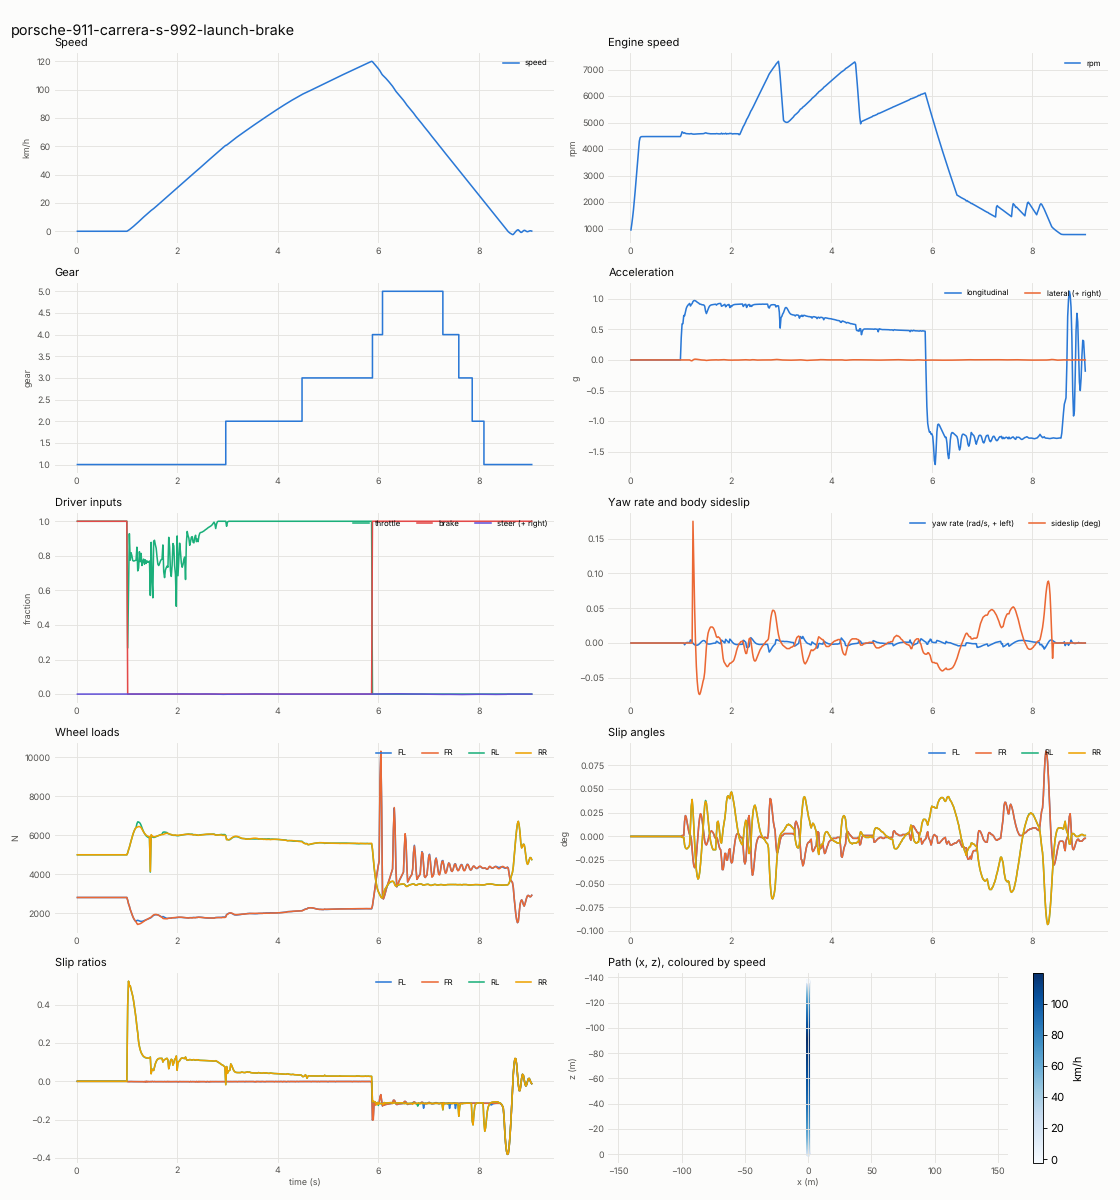
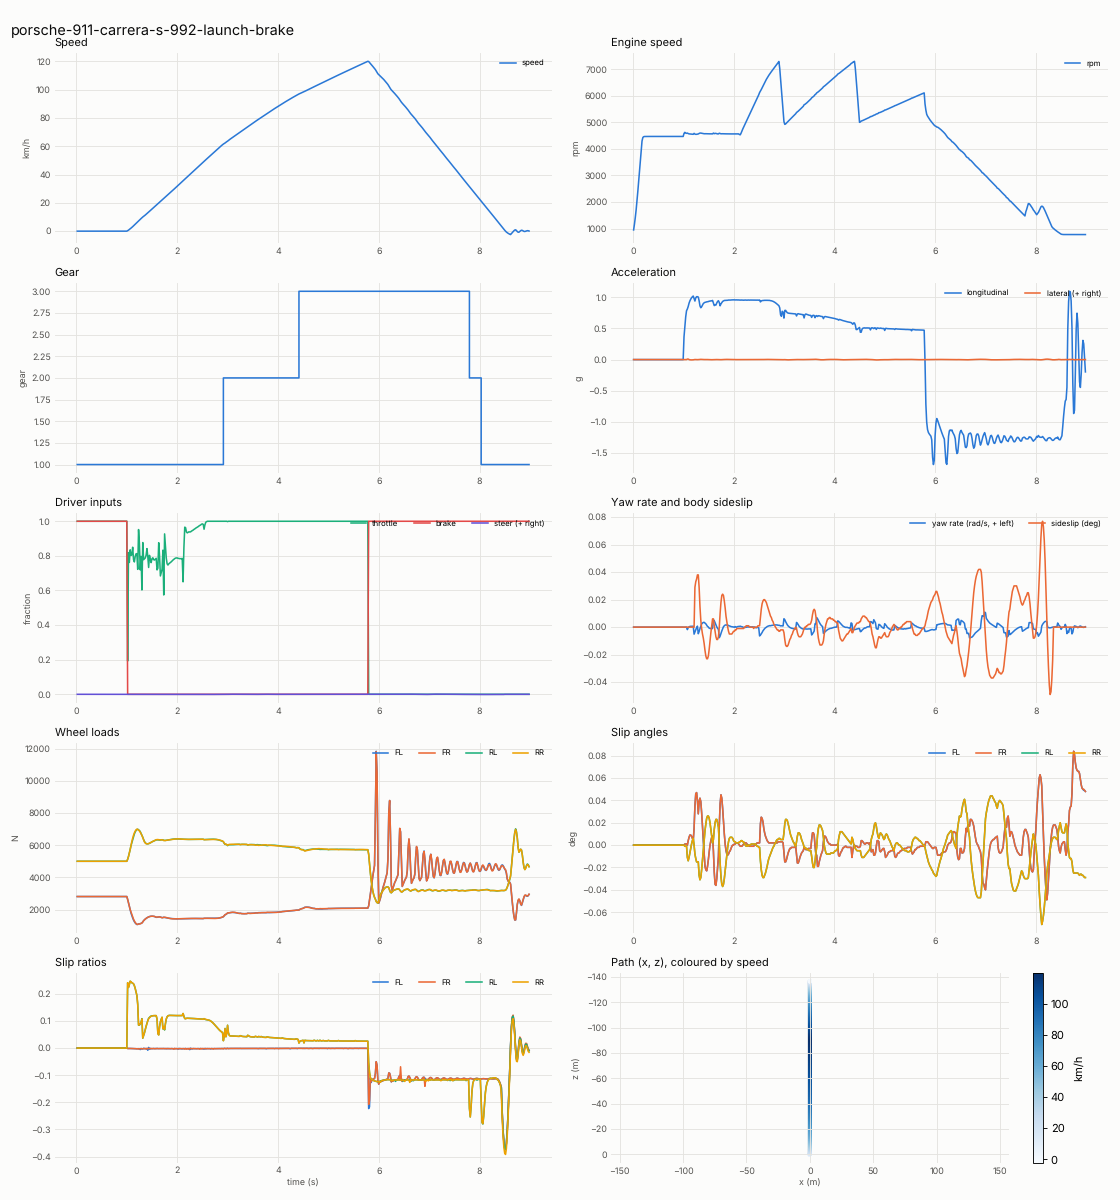
M1 note: independent review section; post-fix figures and plots
Claude-Session: https://claude.ai/code/session_01LGdpko7iDViaW6UH4NJRSr

diff --git a/docs/milestones/M1.md b/docs/milestones/M1.md
@@ -10,7 +10,7 @@ new crates listed under "Dependencies".
 |---|---|---|
 | Vehicle model v1 | `crates/racer-dynamics` | Pure Rust (glam, serde, toml; no Bevy). `Vehicle::step(&mut VehicleState, &ChassisState, &Controls, &[Option<WheelContact>; 4], dt) -> StepOutput { force, torque, telemetry }`. `VehicleState` is plain `Copy` data (rollback = copy). 240 Hz chassis step, wheels and drivetrain substepped ×4 inside. |
 | Tires | `tire.rs` | Magic Formula per axis with the peak placed at a configured slip (B solved from C, E), combined slip by the similarity method, load-sensitive μ, first-order relaxation (implicit, stable at any speed, a damped spring at standstill), pneumatic-trail aligning torque that fades past the peak, surface grip/drag multipliers (dry/wet asphalt, paint, cobbles, metal, curb, grass, dirt). |
-| Suspension | `vehicle.rs` | Spring from ride frequency, bump/rebound damping from damping ratios, progressive bump stop, anti-roll bars, tire forces applied at the axle roll-centre height. Contacts come from the caller's wheel shape cast (distance + normal + surface). |
+| Suspension | `vehicle.rs` | Spring from ride frequency, bump/rebound damping from damping ratios, progressive bump stop, anti-roll bars, roll-centre (geometric) load transfer through a jacking term in the wheel load; tire forces act at the contact patch. Contacts come from the caller's wheel shape cast (distance + normal + surface). |
 | Drivetrain | `drivetrain.rs` | Torque curve, closed-throttle drag, idle governor, rev limiter with hysteresis, flywheel inertia, automatic clutch (launch slip, anti-stall, pedal), launch control (brake + full throttle at rest), gearbox with per-gear final drives (DSG), auto and manual shifting, DCT-style shifts (ignition cut / blip with torque fill), open / clutch-type LSD differentials and an AWD centre differential. Every coupling (clutch, LSDs) is solved implicitly per substep: locked couplings are exactly rigid, slipping ones transmit their capacity. |
 | Aero | `vehicle.rs` | Drag through the CoM, lift/downforce per axle. |
 | Assists | `assists.rs` | ABS and TCS on wheel-speed (kinematic) slip with a proportional slip band and 10 ms actuator lag; TCS trims engine torque, or clutch torque while pulling away; ESC brakes single wheels against a yaw-rate reference capped by grip. Controlled per player through `Controls::assists`. |
@@ -64,13 +64,15 @@ sources are in each `car.toml`. Tolerances:
 
 | Car | 0–100 sim / real (s) | 100–0 sim / real (m) | Skidpad sim / real (g) | Top speed sim / real (km/h) |
 |---|---|---|---|---|
-| Golf GTI | 5.94 / 6.3 (−5.7 %) | 36.34 / 36.4 (−0.2 %) | 0.96 / 0.97 | 249.98 / 250 (governed) |
-| M3 Competition | 3.95 / 3.9 (+1.3 %) | 35.78 / 36.0 (−0.6 %) | 1.02 / 1.03 | 250.03 / 250 (governed) |
-| 911 Carrera S | 3.64 / 3.7 (−1.6 %) | 31.11 / 31.4 (−0.9 %) | 1.06 / 1.06 | 313.06 / 308 (+1.6 %) |
+| Golf GTI | 6.00 / 6.3 (−4.8 %) | 36.66 / 36.4 (+0.7 %) | 0.96 / 0.97 | 250.00 / 250 (governed) |
+| M3 Competition | 4.06 / 3.9 (+4.1 %) | 34.89 / 36.0 (−3.1 %) | 1.04 / 1.03 | 250.02 / 250 (governed) |
+| 911 Carrera S | 3.57 / 3.7 (−3.5 %) | 31.26 / 31.4 (−0.4 %) | 1.05 / 1.06 | 313.06 / 308 (+1.6 %) |
+
+(Figures after the review fixes; see Review below.)
 
 Real 0–100 times are manufacturer claims. Braking figures are magazine 70–0 / 60–0 mph tests
 scaled by v² (no 100–0 km/h magazine figures were found); the notes in each file say which.
-The GTI's measured 0–100 in an instrumented test was 5.88 s, so the simulated 5.94 s is closer to
+The GTI's measured 0–100 in an instrumented test was 5.88 s, so the simulated 6.00 s is closer to
 that than to VW's 6.3 s claim. Top speed for the GTI and M3 is the electronic limiter (the test
 checks that the car reaches it); the 911's is drag-limited.
 
@@ -78,9 +80,9 @@ Step steer at 100 km/h (yaw rate rad/s, sideslip max):
 
 | Car | 0.4 g step, ESC off | 0.4 g step, ESC on | 4× step, ESC on |
 |---|---|---|---|
-| Golf GTI | 0.116 steady, 0.35 g, 0.1° | same | 0.353 steady, 1.00 g, 1.2° |
-| M3 | 0.126, 0.38 g, 0.2° | same | 0.373, 1.06 g, 1.5° |
-| 911 | 0.124, 0.37 g, 0.3° | same | 0.427, 1.16 g, 3.2° |
+| Golf GTI | 0.112 steady, 0.34 g, 0.1° | same | 0.337 steady, 0.96 g, 1.0° |
+| M3 | 0.122, 0.37 g, 0.1° | same | 0.364, 1.04 g, 1.4° |
+| 911 | 0.117, 0.35 g, 0.3° | same | 0.389, 1.08 g, 2.6° |
 
 (The lateral g above is the accelerometer reading, which includes a few hundredths of g from body roll.)
 
@@ -95,8 +97,8 @@ All under `[estimated]` in each `car.toml`; the main ones:
 | Yaw radius of gyration | 1.22 m | 1.30 m | 1.16 m |
 | Ride frequency F/R | 1.55/1.75 Hz | 1.7/1.9 Hz | 1.8/2.1 Hz |
 | Anti-roll rate F/R | 18/14 kN/m | 26/16 kN/m | 22/14 kN/m |
-| Tire μ long F/R | 1.12/1.10 | 1.15/1.45 | 1.26/1.26 |
-| Tire μ lat | 1.17 | 1.22 | 1.24 |
+| Tire μ long F/R | 1.12/1.10 | 1.15/1.35 | 1.26/1.26 |
+| Tire μ lat | 1.22 | 1.27 | 1.30 |
 | Peak slip ratio / angle | 0.11 / 7° | 0.11 / 7° | 0.11 / 7° |
 | Relaxation long/lat | 0.12/0.35 m | 0.12/0.35 m | 0.12/0.35 m |
 | Brake torque F/R per wheel | 3200/1800 Nm | 4200/1000 Nm | 3600/3200 Nm |
@@ -117,7 +119,7 @@ same tire shape for all cars and differs only in μ.
 
 | Test | What it does | Result |
 |---|---|---|
-| `fuzz::random_extreme_inputs_stay_finite_and_bounded` | 3 cars × 4 seeds × 60 s at 240 Hz on a course with curbs every 40 m, a 1 m kicker with a drop every 120 m, undulation and grass; random throttle/brake/steer/handbrake/clutch/shifts/assists, half of the runs from 70 m/s. Checks every step: finite state, speed < 110 m/s, yaw rate < 25 rad/s, wheel spin < 500 rad/s, mechanical energy ≤ initial + peak power × t. Runs include flights, rollovers and reversing. | Pass |
+| `fuzz::random_extreme_inputs_stay_finite_and_bounded` | 3 cars × 4 seeds × 60 s at 240 Hz on a course with curbs every 40 m, a 1 m kicker with a drop every 120 m, undulation and grass; random throttle/brake/steer/handbrake/clutch/shifts/assists, half of the runs from 70 m/s. Checks every step: finite state, speed < 110 m/s, yaw rate < 25 rad/s, wheel spin < 500 rad/s, mechanical energy (chassis, wheels, flywheel) ≤ initial + 1.02 × engine work + 20 kJ. Runs include flights, rollovers and reversing. | Pass |
 | `fuzz::jump_landing_settles` | Kicker at 90 km/h: leaves the ground, lands without bouncing back into the air, is upright and at rest after braking. | Pass |
 | `fuzz::rest_is_quiet` | 5 s settle, then 2 s at rest (brake on and off): \|v\|, \|ω\| < 2·10⁻³. | Pass |
 | `fuzz::cruise_is_smooth` | 120 km/h straight: vertical acceleration std < 0.05 m/s². | Pass |
@@ -134,20 +136,20 @@ Plots for all three cars are in `docs/milestones/m1/`. What they show, after the
 further down:
 
 - **Balance (skidpad, front minus rear slip angle against lateral g):** GTI understeers and
-  increasingly so (0.16° at 0.5 g, 0.72° at 0.9 g); M3 mildly (0.16°, 0.52°); 911 close to
-  neutral (0.06°, 0.16°) with body sideslip turning tail-out near the limit. That ordering is
-  what the layouts and weight distributions predict.
+  increasingly so (0.21° at 0.5 g, 0.82° at 0.9 g); M3 mildly (0.20°, 0.58°); 911 closest to
+  neutral (0.11°, 0.29°). At the limit all three push wide on a saturated front axle (front
+  slip ~10° against ~3° rear). That ordering is what the layouts and weight distributions
+  predict. (Figures from the post-review plots; the skidpad run now reaches the limit.)
 - **Weight transfer:** outside wheels load up in corners (inside rear of the GTI drops below 1 kN
   at 0.95 g, the classic FWD three-wheel stance); front loads rise and rears drop under braking
-  (front axle static to braking: GTI 9.2 → 12.0 kN, M3 9.4 → 12.3 kN, 911 5.6 → 8.6 kN), the
-  reverse under acceleration; the 911 carries most
-  of its load on the rear throughout.
+  (front axle static to braking: GTI 9.2 → 12.4 kN, M3 9.4 → 12.8 kN, 911 5.6 → 9.2 kN), the
+  reverse under acceleration; the 911 carries most of its load on the rear throughout.
 - **Gear changes:** launch control holds launch rpm, then clean upshifts near the limiter with a
-  short rpm drop each (DCT fill), and downshifts under braking; the governed cars sit on 250 km/h.
+  short rpm drop each (DCT fill), and only downshifts under braking; the governed cars sit on 250 km/h.
 - **Slip:** a short wheelspin peak at launch trimmed by TCS to about 1.2× peak slip; ABS holds
-  braking slip near the peak to a standstill; lap slip angles stay within 3° except at the crest
+  braking slip near the peak to a standstill; lap slip angles stay within 5° except at the crest
   landing.
-- **Crest:** at ~100 km/h all cars take off (~0.5 s) and land with 30–65 kN peak wheel loads and
+- **Crest:** at ~100 km/h all cars take off (~0.5 s) and land with 35–72 kN peak wheel loads and
   a short rebound, then carry on (the lateral-g spikes in the lap plots are the landing).
 
 ### Driving captures
@@ -192,7 +194,7 @@ compiler.
 $ cargo fmt --all --check                                          # clean
 $ cargo clippy --workspace --all-targets --locked -- -D warnings   # clean
 $ cargo clippy -p racer-game --features wheel --all-targets -- -D warnings   # clean
-$ cargo test --workspace --locked                                  # 38 tests, all pass (~10 s of test time)
+$ cargo test --workspace --locked                                  # 39 tests, all pass (~35 s of test time)
 $ CARGO_FEATURE_PURE=1 cargo clippy --workspace --all-targets --locked \
     --target x86_64-pc-windows-msvc -- -D warnings                 # clean
 $ CARGO_FEATURE_PURE=1 cargo clippy --workspace --all-targets --locked \
@@ -251,3 +253,134 @@ $ CARGO_FEATURE_PURE=1 cargo clippy --workspace --all-targets --locked \
 - `tools/plot_telemetry.py` needs a Python that can import the distro's matplotlib; this
   container's default `python3` is 3.13 while Ubuntu's package targets 3.12, so
   `tools/telemetry.sh` picks whichever works.
+
+## Review
+
+Independent review of branch `m1-driving-feel` (handoff commit `3ec5e4d`), done in a fresh
+GPU-less container (4 cores, Ubuntu 24.04, Mesa lavapipe) on 2026-10-27. Fixes are separate
+commits on the branch after the handoff.
+
+### What was verified
+
+All commands were run on the handoff commit first, then on the final tree after the fixes below.
+
+| Check | Handoff commit | Final tree |
+|---|---|---|
+| `tools/setup.sh` | ok | (not changed) |
+| `cargo fmt --all --check` | clean | clean |
+| `cargo clippy --workspace --all-targets --locked -- -D warnings` | clean | clean |
+| `cargo clippy -p racer-game --features wheel --all-targets --locked -- -D warnings` | clean | clean |
+| `cargo test --workspace --locked`, 3 runs | all pass, 3/3 | all pass, 3/3 (39 tests: 38 + the replay test) |
+| `cargo test -p racer-game --features wheel` (SDL3 from source) | pass | pass (new latch test included) |
+| Cross clippy `x86_64-pc-windows-msvc`, `aarch64-apple-darwin` (`CARGO_FEATURE_PURE=1`, after `rustup target add`) | clean | clean |
+| `tools/telemetry.sh` | 9 CSV + 9 PNG | 9 CSV + 9 PNG, plots replaced in `docs/milestones/m1/` |
+| `tools/capture.sh driving` / `greybox` + `racer-capture diff` against the goldens | all pass (driving ≤ 0.031 mean error, greybox 0.000) | all pass (driving ≤ 0.026, greybox 0.000) |
+
+Every plot and capture was looked at. The handoff's telemetry figures (balance, braking loads)
+were reproduced from its CSVs before changing anything. The goldens were not updated: the fixes
+move the captured images by a few HUD pixels, well inside the diff tolerance.
+
+Car data spot-checks: the 911 Carrera S (331 kW, 530 Nm at 2300–5000, 0–100 3.7 s without Sport
+Chrono, 308 km/h, 1515 kg DIN), M3 Competition (375 kW, 650 Nm, 1730 kg DIN, 0–100 3.9 s, ZF
+8HP ratios) and GTI Mk8 (180 kW, 370 Nm at 1600–4300, 0–100 6.3 s DSG, governed 250) figures
+match the manufacturer data I know of and what web searches turned up. Car and Driver pages
+(GTI and M3 test figures) could not be fetched from this container, so the 70–0 and skidpad
+numbers were not independently re-checked.
+
+### Physics review
+
+Conventions check out: body frame +X right, +Y up, −Z forward throughout; steering positive
+left inside the model (input +1 = right); slip and force signs, the aligning-torque sign (a tire
+sliding right returns the wheel), Ackermann (inside wheel more), ESC wheel choice (outside front
+on oversteer, inside rear on understeer), inertia axes (X pitch, Y yaw, Z roll) in both the
+testbed and the Avian `AngularInertia`. The clutch and LSD couplings are solved implicitly and
+correctly (rederived the lock torque); relaxation is integrated implicitly; the tire stays
+inside the friction ellipse. The reference maneuvers are honest: the scripted drivers are plain
+feedback laws with no per-car cases, and the Avian path reproduces the same numbers (below).
+`VehicleState` is `Copy` and the step uses no hidden state, now backed by a replay test.
+
+### Testbed vs Avian
+
+Avian figures are from the telemetry runs on the greybox track (skidpad: best 1 s mean of v²/r
+within 0.75 m of the 45.72 m line, the testbed's metric; braking: distance from 100 km/h during
+a full stop from 120 km/h).
+
+| Car | 0–100 s, testbed / Avian | 100–0 m, testbed / Avian | Skidpad g, testbed / Avian |
+|---|---|---|---|
+| Golf GTI | 6.00 / 6.07 | 36.66 / 36.23 | 0.96 / 0.95 |
+| M3 Competition | 4.06 / 4.08 | 34.89 / 34.58 | 1.04 / 1.03 |
+| 911 Carrera S | 3.57 / 3.62 | 31.26 / 31.46 | 1.05 / 1.03 |
+
+The two paths agree within 2 % on time and distance and 0.02 g on the skidpad. (Before the fix
+to the telemetry skidpad run, the Avian skidpad could not be compared at all, see 5.)
+
+### Issues found and fixed
+
+1. **Load transfer ~17 % short** (`vehicle.rs`, physics). Tire forces were applied at roll-centre
+   height with nothing carrying the rest of their moment, so the overturning moment was
+   F (h − h_rc) instead of F h. Measured in the testbed: steady cornering moment from the wheel
+   loads 0.82–0.84 of m a h, braking front gain 0.82–0.84 of m a h / L. Fix: the tire force acts
+   at the contact patch, and each wheel load carries the linkage's jacking force
+   −F_lat h_rc / x_wheel (from the last step's lateral force, plain data in `WheelState`), so the
+   total is m a h / track while the springs still carry only the share above the roll centre
+   (body roll unchanged). Afterwards 0.98–0.99 (lateral, the rest is the tilted accelerometer)
+   and 0.96–1.01 (braking). Less grip followed from load sensitivity, so μ_lat was refitted
+   (GTI/M3/911 1.17/1.22/1.24 → 1.22/1.27/1.30), and the M3's rear μ_long fit came down from
+   1.45 to 1.35 now that its rears gain their full load under acceleration.
+2. **Aligning torque never reached the chassis** (`vehicle.rs`): computed for force feedback but
+   not applied. Now added to the chassis torque.
+3. **Driveline created energy on the overrun** (`drivetrain.rs`): the efficiency scaled the
+   wheel-side torque the same way in both directions, so under engine braking the wheels gave up
+   only η of what the engine absorbed. When the wheels drive the engine they now supply 1/η.
+4. **Fuzz energy check could not fail** (`tests/fuzz.rs`): the bound was initial + 1.05 × peak
+   power × t (~23 MJ after a minute). It now counts wheel and flywheel energy and must stay
+   within the engine's actual positive work +2 % +20 kJ (a bound of 0.9 × that work, no margin, fails).
+5. **Telemetry skidpad never reached the limit** (`racer-capture/src/telemetry.rs`): the ramp
+   started at 10 m/s and hit the 90 s cap at ~0.95 g with every car still on the line, so the
+   handoff's "near the limit" balance remarks were not backed by the plots. The ramp now starts
+   at 14 m/s; assists stay on for the run-up from rest only (the 911 spun on a full-throttle,
+   assists-off start). All cars now run wide at their limit before the cap.
+6. **Automatic upshifts under hard braking** (`drivetrain.rs`): with the throttle closed the
+   upshift point drops to its part-throttle value, so a stop from 120 km/h went 3-4-5-6 before
+   downshifting. Upshifts now wait for the brake to be released.
+7. **Driving captures ran the car at 64 Hz** (`racer-sim/src/vehicle.rs`): the capture scene
+   added `VehiclePlugin` without `SimPlugin`, so the fixed step was Bevy's default 64 Hz, not
+   240 Hz. After fix 1 the parked car settled into a step-rate limit cycle at that rate (the HUD
+   read 0.75 g at rest in the later captures). `VehiclePlugin` now adds `SimPlugin` if missing.
+8. **SDL3 paddle shifts mostly lost** (`sdl_wheel.rs`): the 4 ms SDL thread set a one-poll edge
+   that the next poll cleared before the game (one read per frame) saw it. Presses are now
+   latched until read (new test). The joystick-name mutex nobody read became a log line. CI now
+   also lints `--features wheel` on Linux.
+9. **Rollback claim untested**: new `replay_from_a_snapshot_is_bit_identical` test.
+10. **Fragile mock-wheel test** (`input.rs`): it checked one force sample at 3 s, which after the
+    fixes landed on the right wheels dropping off the road edge. Now 2.5 s and the mean of the
+    last 0.25 s.
+
+The handoff's tables above (reference results, step steer, fitted μ, telemetry figures) were
+updated to the post-fix numbers.
+
+### Left open
+
+- PLAN.md section 4 items not in M1: camber thrust and camber/toe curves, ride-height-sensitive
+  aero, slipstream, torque vectoring, and the quarter-mile reference test (no source figures in
+  the car files yet). The handoff lists these as gaps; they should be scheduled.
+- The model is tuned and validated only at 240 Hz; `Vehicle::step` takes any `dt` but the
+  low-speed tire damping can limit-cycle at much lower rates (seen at 64 Hz).
+- Fitted parameters that compensate for unknowns: the M3's rear-light brake balance (4200/1000
+  Nm) and its rear μ_long 1.35 against 1.15 front. The M3 now lands at +4.1 % on 0–100 and
+  −3.1 % on braking, inside tolerance but not centred.
+- Single-sample wheel-load dips (~0.5 kN) in the Avian telemetry and 35–72 kN crest landings
+  are contact-solver artefacts of the greybox crest; not harmful, worth watching when real
+  tracks arrive.
+- Steering-wheel hardware and FFB direction remain untested on a real device; CI still cannot
+  start jobs on this account.
+
+### Verdict
+
+- **Reference maneuvers within tolerance:** met, now with physically complete load transfer,
+  and confirmed independently in the Avian path (within 2 %).
+- **Stable at 240 Hz under fuzzing:** met; the energy check is now a real one.
+- **Telemetry plots match expected behaviour:** met after fixes 5 and 6 (plots regenerated).
+
+M1's exit criteria are met. The gaps above against PLAN.md section 4 (camber, aero ride height,
+slipstream, quarter mile) are real but outside the M1 row's exit criteria.
